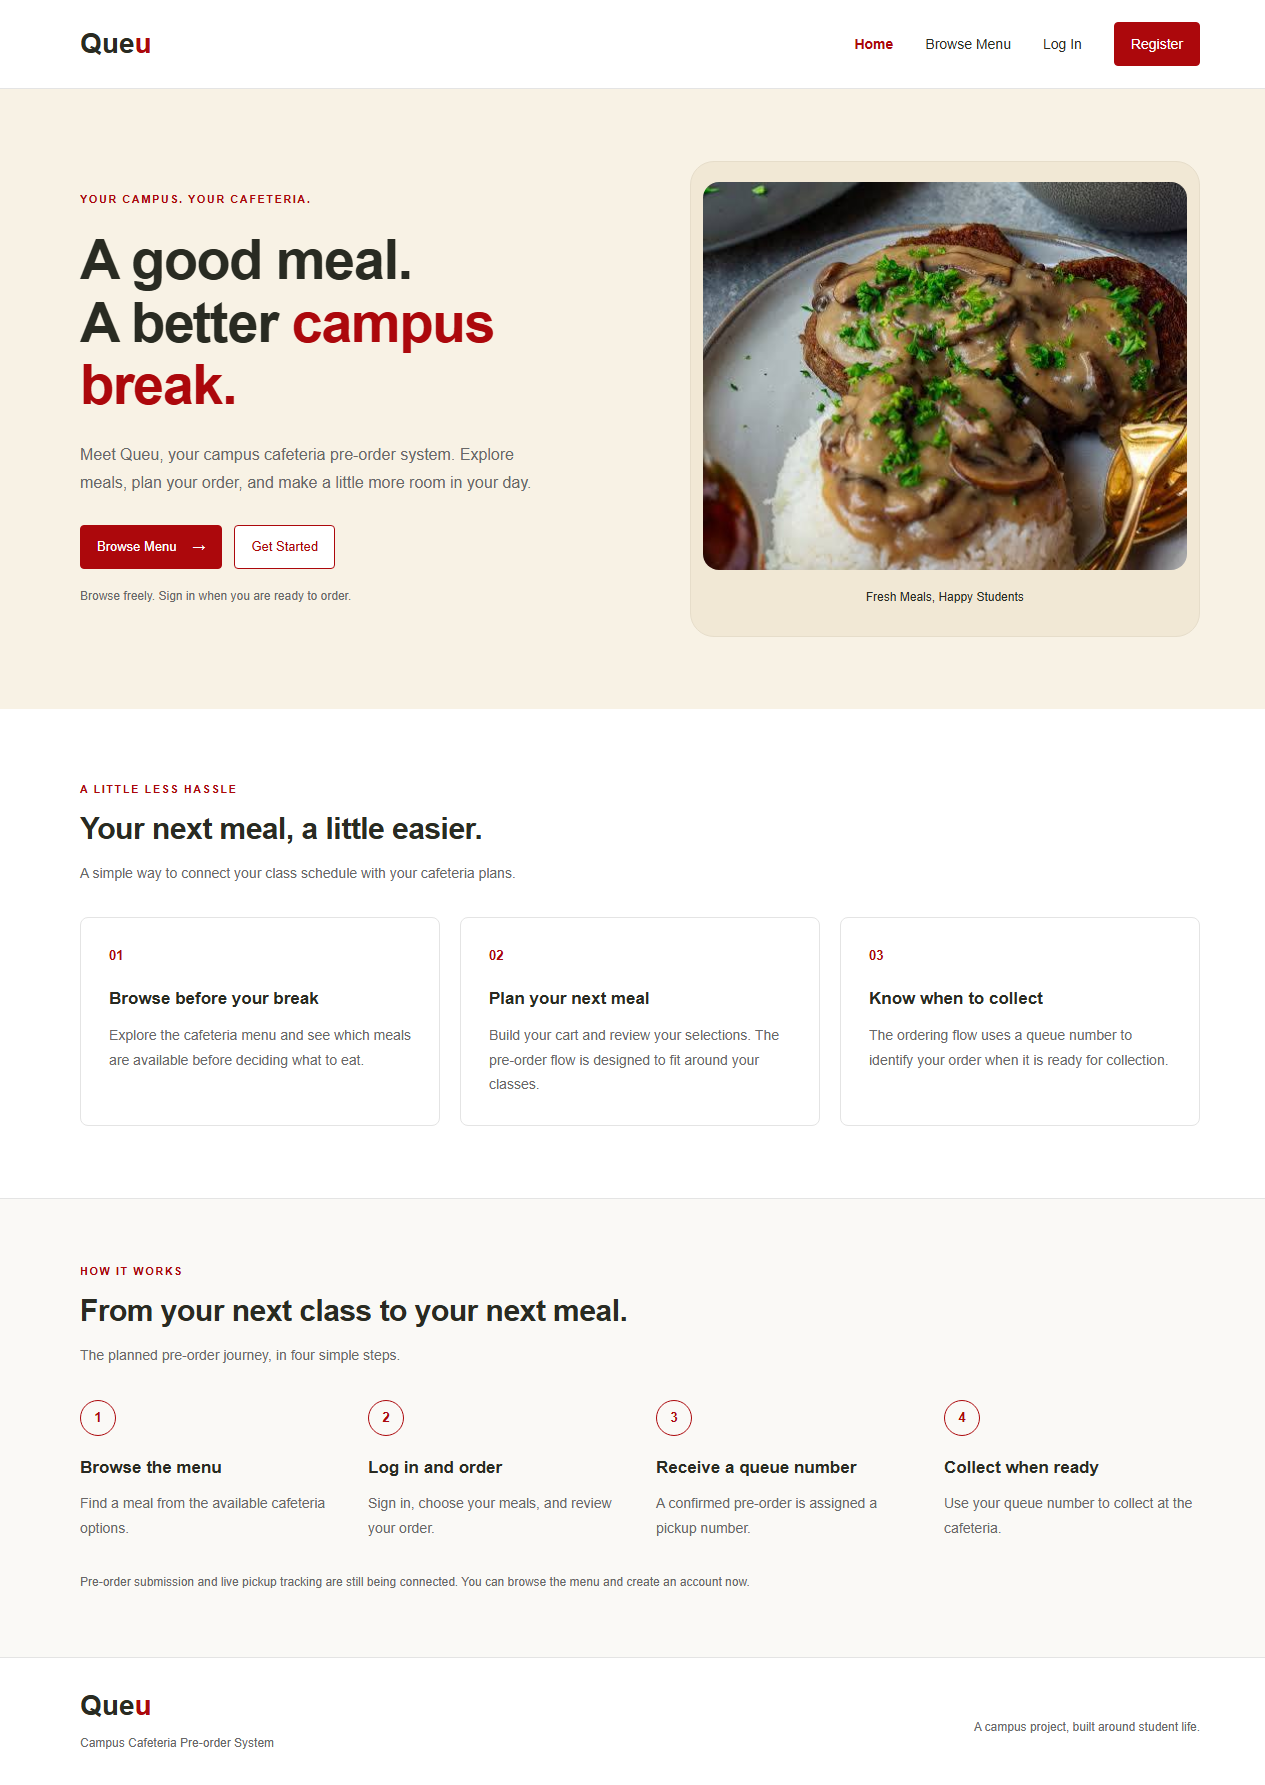
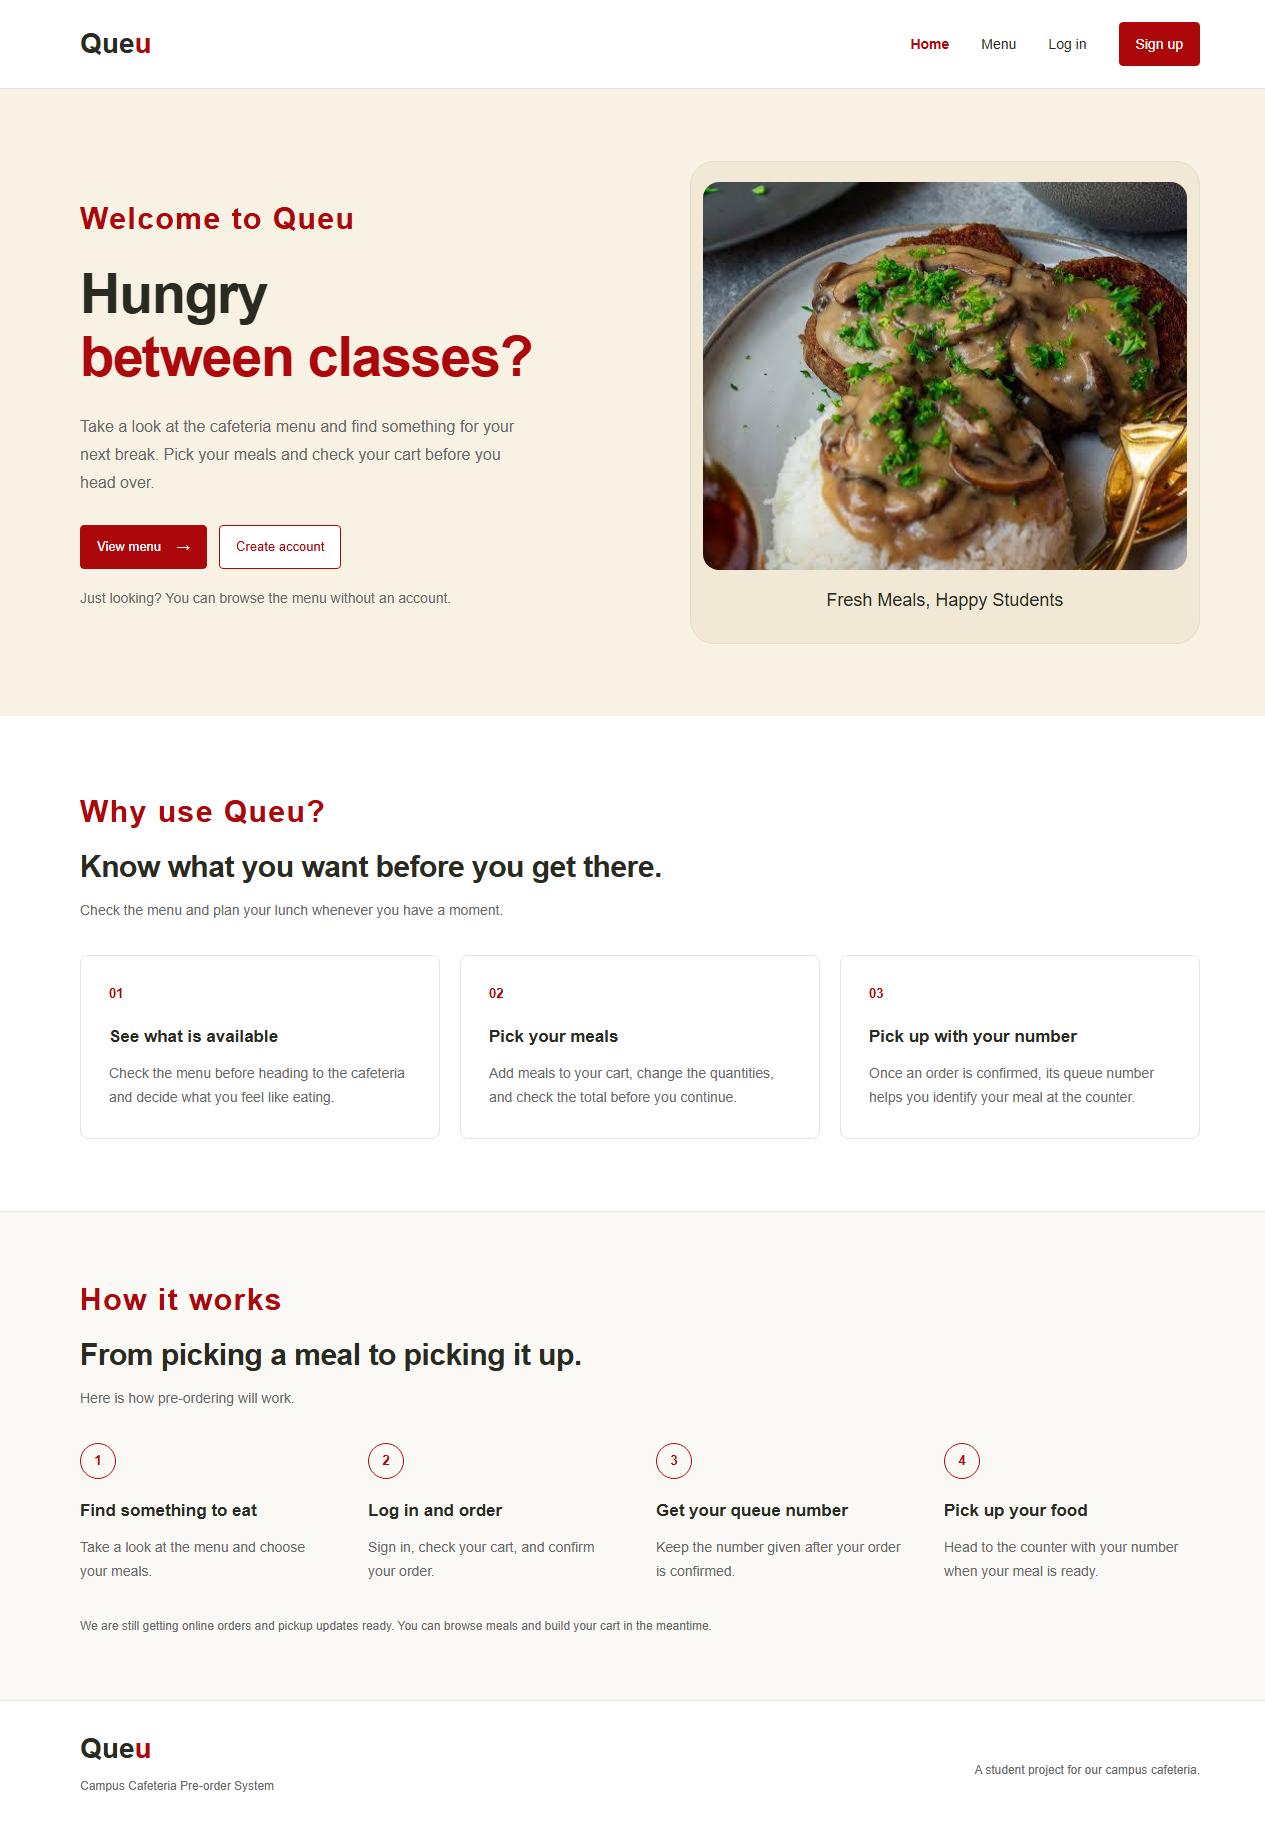
style: polish landing page wording and typography

diff --git a/frontend/src/pages/LandingPage.jsx b/frontend/src/pages/LandingPage.jsx
@@ -3,31 +3,45 @@ import './LandingPage.css'
 const benefits = [
   {
     number: '01',
-    title: 'Browse before your break',
-    description: 'Explore the cafeteria menu and see which meals are available before deciding what to eat.',
+    title: 'See what is available',
+    description:
+      'Check the menu before heading to the cafeteria and decide what you feel like eating.',
   },
   {
     number: '02',
-    title: 'Plan your next meal',
-    description: 'Build your cart and review your selections. The pre-order flow is designed to fit around your classes.',
+    title: 'Pick your meals',
+    description:
+      'Add meals to your cart, change the quantities, and check the total before you continue.',
   },
   {
     number: '03',
-    title: 'Know when to collect',
-    description: 'The ordering flow uses a queue number to identify your order when it is ready for collection.',
+    title: 'Pick up with your number',
+    description:
+      'Once an order is confirmed, its queue number helps you identify your meal at the counter.',
   },
 ]
 
 const steps = [
-  { title: 'Browse the menu', text: 'Find a meal from the available cafeteria options.' },
-  { title: 'Log in and order', text: 'Sign in, choose your meals, and review your order.' },
-  { title: 'Receive a queue number', text: 'A confirmed pre-order is assigned a pickup number.' },
-  { title: 'Collect when ready', text: 'Use your queue number to collect at the cafeteria.' },
+  {
+    title: 'Find something to eat',
+    text: 'Take a look at the menu and choose your meals.',
+  },
+  {
+    title: 'Log in and order',
+    text: 'Sign in, check your cart, and confirm your order.',
+  },
+  {
+    title: 'Get your queue number',
+    text: 'Keep the number given after your order is confirmed.',
+  },
+  {
+    title: 'Pick up your food',
+    text: 'Head to the counter with your number when your meal is ready.',
+  },
 ]
 
 export default function LandingPage({ onNavigate }) {
   function handleLinkClick(event, page) {
-    // Keep normal browser behavior for opening a link in another tab.
     if (event.ctrlKey || event.metaKey || event.shiftKey || event.altKey) {
       return
     }
@@ -65,20 +79,20 @@ export default function LandingPage({ onNavigate }) {
               href="/menu"
               onClick={(event) => handleLinkClick(event, 'menu')}
             >
-              Browse Menu
+              Menu
             </a>
             <a
               href="/login"
               onClick={(event) => handleLinkClick(event, 'login')}
             >
-              Log In
+              Log in
             </a>
             <a
               className="app-button landing-button"
               href="/register"
               onClick={(event) => handleLinkClick(event, 'register')}
             >
-              Register
+              Sign up
             </a>
           </nav>
         </div>
@@ -88,14 +102,15 @@ export default function LandingPage({ onNavigate }) {
         <section className="landing-hero" aria-labelledby="landing-title">
           <div className="landing-container landing-hero-content">
             <div className="landing-hero-copy">
-              <p className="landing-eyebrow">YOUR CAMPUS. YOUR CAFETERIA.</p>
+              <p className="landing-eyebrow">Welcome to Queu</p>
               <h1 id="landing-title">
-                A good meal.<br />
-                A better <span>campus break.</span>
+                Hungry<br />
+                <span>between classes?</span>
               </h1>
               <p className="landing-description">
-                Meet Queu, your campus cafeteria pre-order system. Explore meals,
-                plan your order, and make a little more room in your day.
+                Take a look at the cafeteria menu and find something for your
+                next break. Pick your meals and check your cart before you
+                head over.
               </p>
 
               <div className="landing-actions">
@@ -104,18 +119,18 @@ export default function LandingPage({ onNavigate }) {
                   href="/menu"
                   onClick={(event) => handleLinkClick(event, 'menu')}
                 >
-                  Browse Menu <span aria-hidden="true">→</span>
+                  View menu <span aria-hidden="true">→</span>
                 </a>
                 <a
                   className="app-button app-button--secondary landing-button"
                   href="/register"
                   onClick={(event) => handleLinkClick(event, 'register')}
                 >
-                  Get Started
+                  Create account
                 </a>
               </div>
               <p className="landing-small-note">
-                Browse freely. Sign in when you are ready to order.
+                Just looking? You can browse the menu without an account.
               </p>
             </div>
 
@@ -136,9 +151,9 @@ export default function LandingPage({ onNavigate }) {
           aria-labelledby="benefits-title"
         >
           <div className="landing-section-intro">
-            <p className="landing-eyebrow">A LITTLE LESS HASSLE</p>
-            <h2 id="benefits-title">Your next meal, a little easier.</h2>
-            <p>A simple way to connect your class schedule with your cafeteria plans.</p>
+            <p className="landing-eyebrow">Why use Queu?</p>
+            <h2 id="benefits-title">Know what you want before you get there.</h2>
+            <p>Check the menu and plan your lunch whenever you have a moment.</p>
           </div>
 
           <div className="landing-benefit-grid">
@@ -157,9 +172,9 @@ export default function LandingPage({ onNavigate }) {
         <section className="landing-workflow" aria-labelledby="workflow-title">
           <div className="landing-container">
             <div className="landing-section-intro">
-              <p className="landing-eyebrow">HOW IT WORKS</p>
-              <h2 id="workflow-title">From your next class to your next meal.</h2>
-              <p>The planned pre-order journey, in four simple steps.</p>
+              <p className="landing-eyebrow">How it works</p>
+              <h2 id="workflow-title">From picking a meal to picking it up.</h2>
+              <p>Here is how pre-ordering will work.</p>
             </div>
 
             <ol className="landing-steps">
@@ -175,8 +190,8 @@ export default function LandingPage({ onNavigate }) {
             </ol>
 
             <p className="landing-workflow-note">
-              Pre-order submission and live pickup tracking are still being
-              connected. You can browse the menu and create an account now.
+              We are still getting online orders and pickup updates ready.
+              You can browse meals and build your cart in the meantime.
             </p>
           </div>
         </section>
@@ -194,7 +209,7 @@ export default function LandingPage({ onNavigate }) {
             </a>
             <p>Campus Cafeteria Pre-order System</p>
           </div>
-          <p>A campus project, built around student life.</p>
+          <p>A student project for our campus cafeteria.</p>
         </div>
       </footer>
     </div>

diff --git a/frontend/src/pages/LandingPage.css b/frontend/src/pages/LandingPage.css
@@ -89,7 +89,7 @@
 .landing-eyebrow {
   margin: 0 0 20px;
   color: #ac080c;
-  font-size: 11px;
+  font-size: 30px;
   font-weight: bold;
   letter-spacing: 1.5px;
   line-height: 1.6;
@@ -123,7 +123,7 @@
 .landing-small-note {
   margin: 18px 0 0;
   color: #686868;
-  font-size: 12px;
+  font-size: 14px;
   line-height: 1.6;
 }
 
@@ -148,7 +148,7 @@
 .landing-visual figcaption {
   margin: 20px 0 12px;
   text-align: center;
-  font-size: 12px;
+  font-size: 18px;
 }
 
 .landing-benefits {

diff --git a/frontend/src/data/mockOrders.js b/frontend/src/data/mockOrders.js
@@ -82,7 +82,6 @@ const mockOrders = [
 
 export default mockOrders;
 
-// Adapt the shared mock data to the order history view while keeping its default export.
 const orderHistoryOrders = mockOrders.map((order) => ({
   ...order,
   id: `order-${order.order_id}`,

diff --git a/frontend/vite.config.js b/frontend/vite.config.js
@@ -1,7 +1,6 @@
 import react from '@vitejs/plugin-react'
 import { defineConfig } from 'vite'
 
-// https://vite.dev/config/
 export default defineConfig({
   plugins: [react()],
 })

diff --git a/frontend/docs/landing-page.md b/frontend/docs/landing-page.md
@@ -43,7 +43,7 @@ authentication, checkout submission, queue generation, APIs, or database behavio
   320×700: no horizontal overflow; the photo loaded; all sections rendered.
 - Landing made zero API requests. No order/queue calls or order submissions were
   made during the browser checks.
-- Home, Browse Menu, Log In, Register, Get Started, account brand links, and
+- Home, View menu, Log in, Sign up, Create account, account brand links, and
   browser Back worked. Direct menu/login/register routes also rendered.
 - A guest could browse the menu and was directed to login when adding a meal.
   Direct guest access to the cart remained protected. Authenticated cart additions
